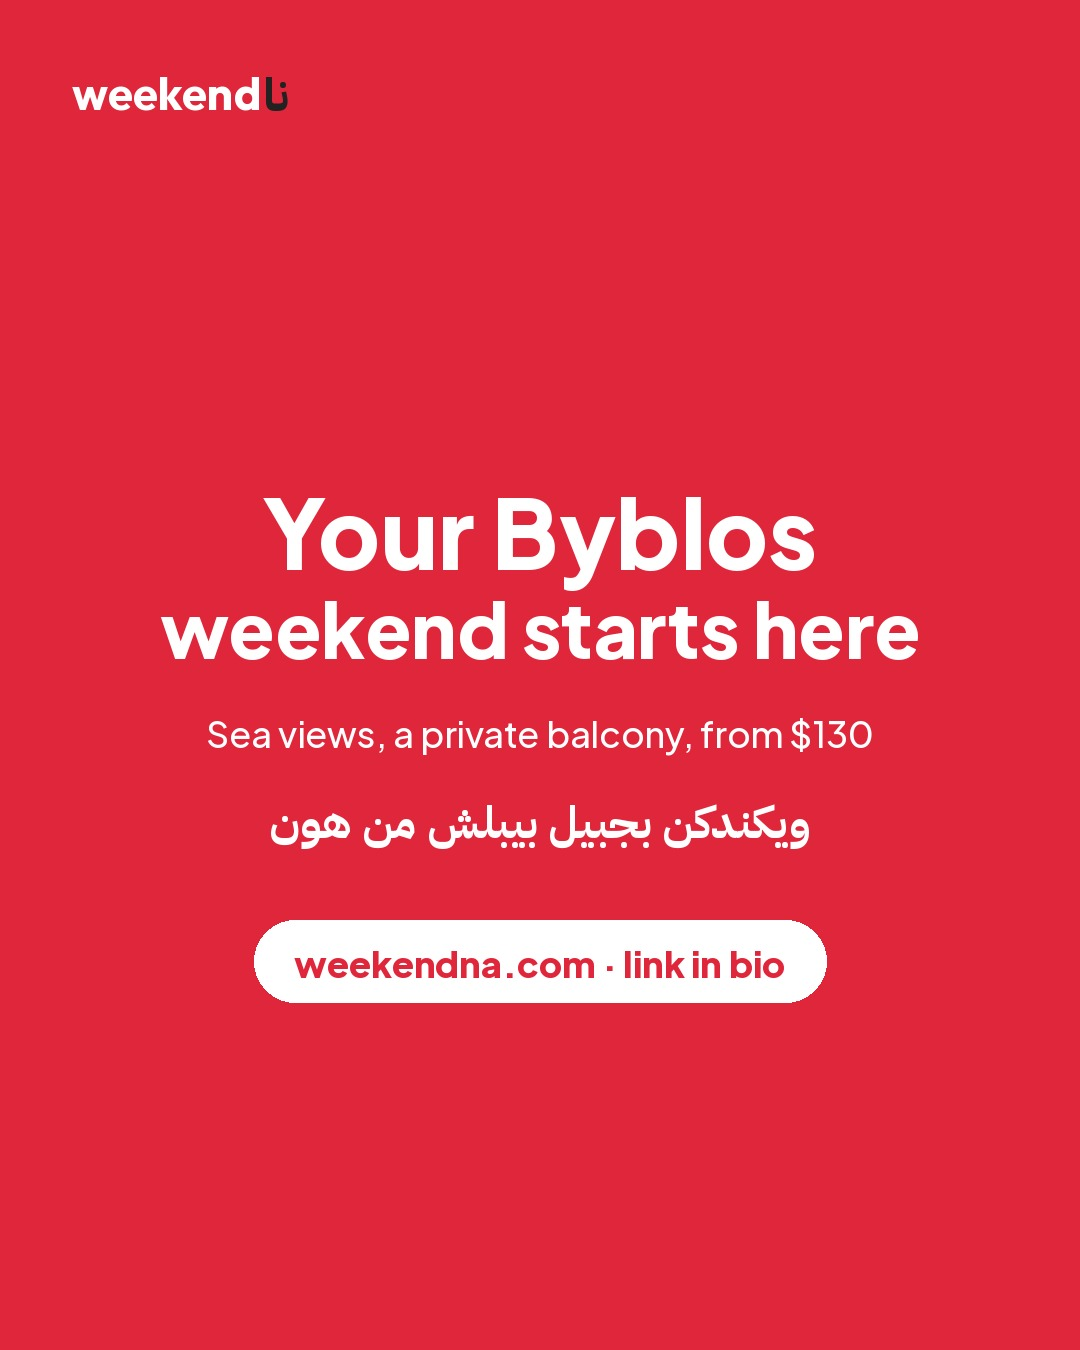
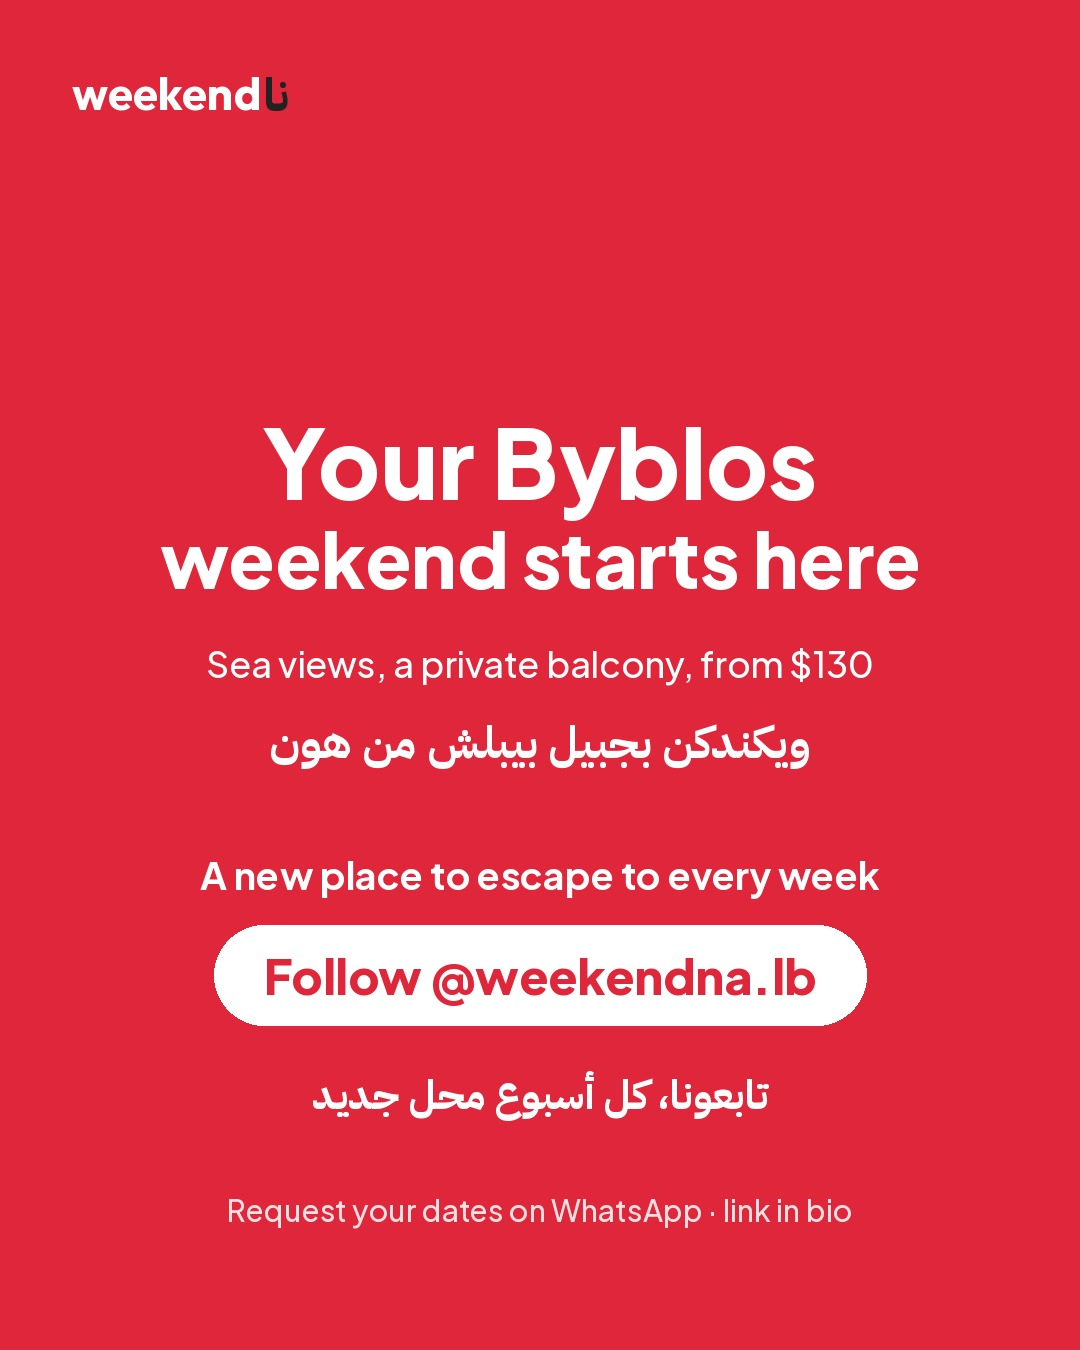
Follow-first captions, follow CTA slide and story for Majestic Byblos; playbook rule for future posts
Claude-Session: https://claude.ai/code/session_01QuaNDiRuNxXqmqyFLSJsRU

Changed region(s): [[0.1528, 0.3111, 0.8556, 0.84], [0.2139, 0.8711, 0.6417, 0.9333], [0.6722, 0.8711, 0.7944, 0.9022]]

diff --git a/PLAYBOOK.md b/PLAYBOOK.md
@@ -25,6 +25,7 @@ How @weekendna.lb posts are made and scheduled. Written for the weekly scheduled
 - **Follow ask:** every caption ends its English block with "Follow @weekendna.lb for a new place every week 🏡" and its Arabic block with "تابعونا عـ@weekendna.lb، كل أسبوع محل جديد 🏡" (after the booking line, before hashtags).
 
 ## The rules (from Kamel)
+- **Follow first (Kamel, 29 Oct 2026):** the goal is followers, not only views. In every caption the follow line comes FIRST after the description ("👉 Follow @weekendna.lb for a new place to escape to every week 🏡", Arabic "👉 تابعونا عـ@weekendna.lb، كل أسبوع محل جديد 🏡"), and the WhatsApp line ("Request your dates on WhatsApp, nothing to pay yet. Link in bio 📅") comes after it. The last carousel slide's main button is "Follow @weekendna.lb" (no "link in bio" button; keep a small "Request your dates on WhatsApp · link in bio" line). The story's bottom line is "Follow @weekendna.lb". Every Reel ends with a 2-second end card showing "Follow @weekendna.lb" large. Arabic on-screen text must not contain the Latin handle (renders as empty boxes); write "تابعونا" only. Keep the collab tag on every owner post (the collab header is a tappable link to our profile).
 - **Cadence (from Oct 2026):** **one feed post per day**, at **6pm Lebanon time** (Asia/Beirut, changed 24 Oct 2026; the daily task runs at 17:54 Beirut time, so don't use UK time for the slot), alternating a carousel (with its story) and a Reel: carousel on day 1, its Reel version on day 2 (`reel_date`), next carousel on day 3, and so on. Never two feed posts on the same day (they compete with each other on a small account). Standalone Reels (`type: "reel"`: roundups of 3–5 places on one theme, a fresh angle on a place posted 3+ weeks ago, or Kamel's own videos) take their own day, never a day that already has a post. Kamel's own videos go in soon after he shares them.
 - **No empty days (Kamel, Oct 2026):** something goes out every day. If a post is moved, held or skipped, fill its day by moving the next ready post forward; never leave a day without a post, and two empty days in a row is never acceptable.
 - **Instagram is fully automated.** Kamel gets the week's plan and previews; he can reply to change, hold or reorder, otherwise posts go out on schedule.
